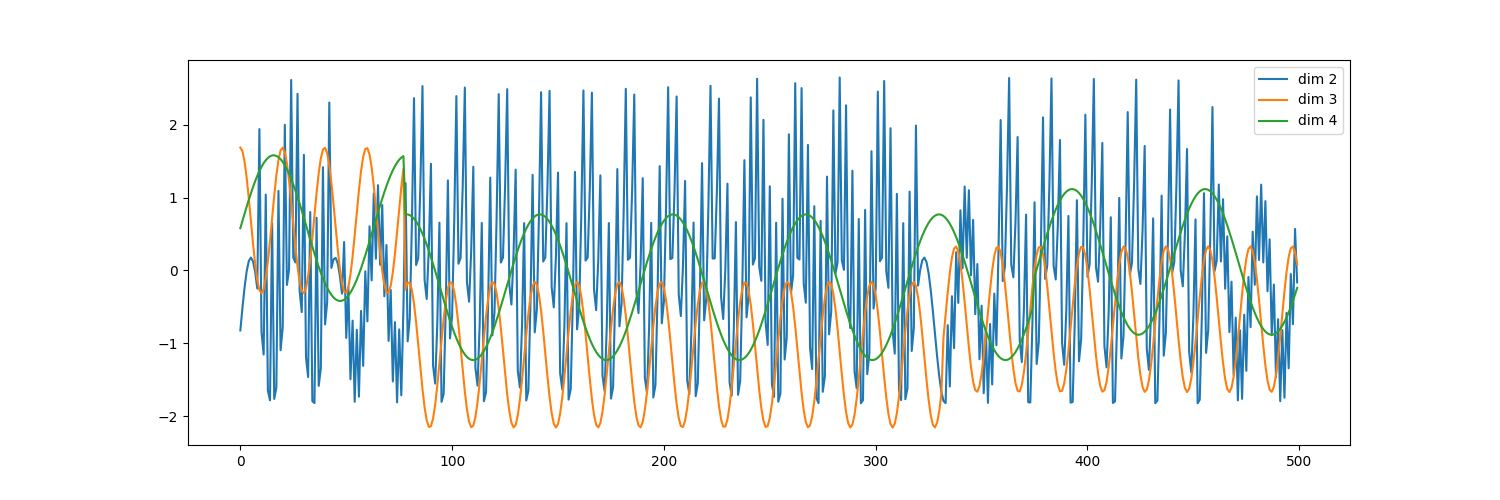
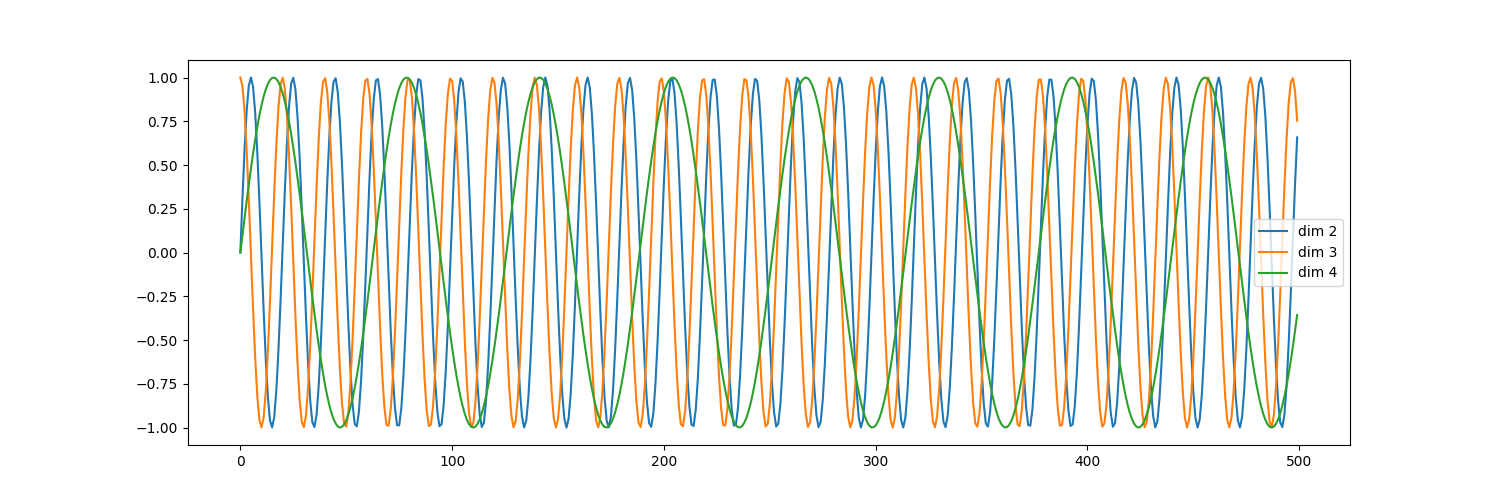
Reshape the dimensions of input

diff --git a/code/model.py b/code/model.py
@@ -1,6 +1,5 @@
 import copy
 import math
-from numpy import positive
 
 import torch
 import torch.nn as nn
@@ -42,21 +41,6 @@ class Encoder(nn.Module):
         for layer in self.layers:
             x = layer(x, mask)
         return self.norm(x)
-
-
-class LayerNorm(nn.Module):
-    "Construct a layernorm module (See citation for details)."
-
-    def __init__(self, features, eps=1e-6):
-        super(LayerNorm, self).__init__()
-        self.a_2 = nn.Parameter(torch.ones(features))
-        self.b_2 = nn.Parameter(torch.zeros(features))
-        self.eps = eps
-
-    def forward(self, x):
-        mean = x.mean(-1, keepdim=True)
-        std = x.std(-1, keepdim=True)
-        return self.a_2 * (x - mean) / (std + self.eps) + self.b_2
 
 
 class SublayerConnection(nn.Module):
@@ -157,19 +141,16 @@ class PositionalEncoding(nn.Module):
 
         pe = torch.zeros(max_len, d_model)
         position = torch.arange(0, max_len).unsqueeze(1)
-        print("POSITION: ", position.size())
         div_term = torch.exp(torch.arange(0, d_model, 2)
                              * (-math.log(10000.0) / d_model))
-        print("DIV_TERM: ", div_term.size())
-                             
+
         pe[:, 0::2] = torch.sin(div_term * position)
         pe[:, 1::2] = torch.cos(div_term * position)
-        pe = pe.transpose(0, 1)
         pe = pe.unsqueeze(0)
         self.register_buffer('pe', pe)
 
     def forward(self, x):
-        x = x + Variable(self.pe[:, :, :x.size(-1)], requires_grad=False)
+        x = x + Variable(self.pe[:, :x.size(1), :], requires_grad=False)
         return self.dropout(x)
 
 

diff --git a/code/unittest.py b/code/unittest.py
@@ -38,16 +38,16 @@ def test_model():
 def test_pos_enc():
     dataloader = test_dataloader()
     for i, batch in enumerate(dataloader):
-        plt.figure(figsize=(15, 5))
+        plt.figure(figsize=(16, 5))
         pe = PositionalEncoding(16, 0)
         print("PE: ", pe.pe.size())
-        y = pe.forward(batch['input'])
-        plt.plot(np.arange(500), y[0, 2:5, :].transpose(0, 1).data.numpy())
+        y = pe.forward(torch.zeros_like(batch['input']))
+        plt.plot(np.arange(config['l_win']), y[0, :, 2:5].data.numpy())
         plt.legend(["dim %d" % p for p in [2, 3, 4]])
         plt.savefig('test.png')
         break
 
 
 if __name__ == '__main__':
-    test_model()
-    # test_pos_enc()
+    # test_model()
+    test_pos_enc()

diff --git a/code/data_loader.py b/code/data_loader.py
@@ -25,4 +25,4 @@ class CustomDataset(Dataset):
         # readings_normalised = (data['readings'] - train_m) / train_std
 
         # slice training set into rolling windows
-        self.rolling_windows = np.lib.stride_tricks.sliding_window_view(data['training'], self.config['l_win'], axis=0, writeable=True)
+        self.rolling_windows = np.lib.stride_tricks.sliding_window_view(data['training'], self.config['l_win'], axis=0, writeable=True).transpose(0, 2, 1)
